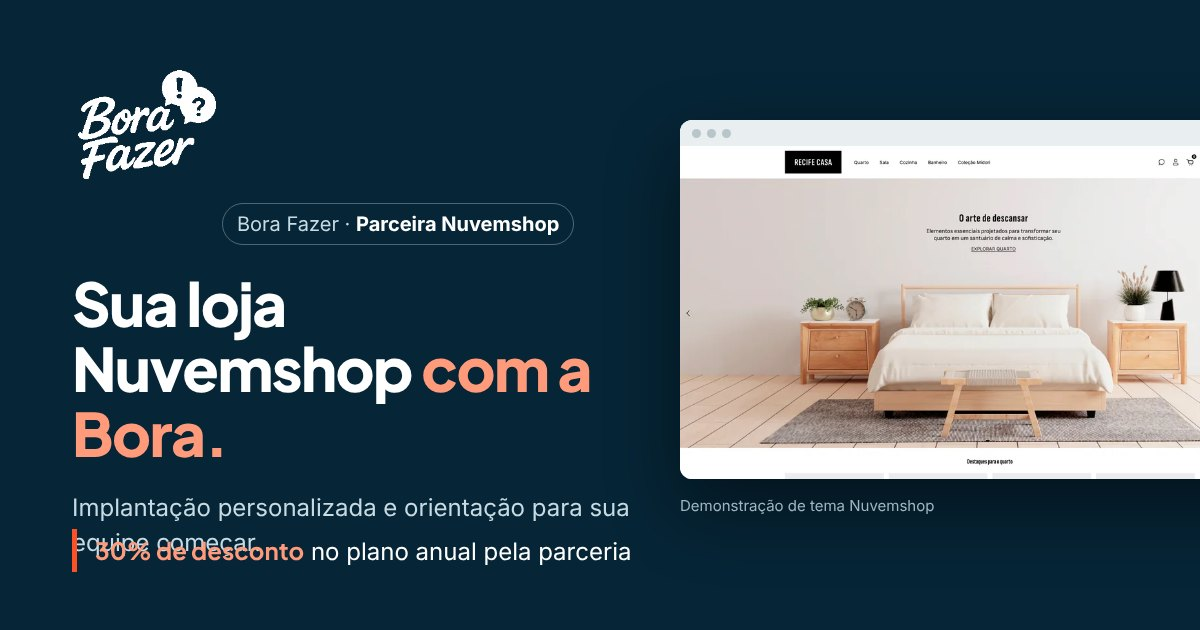
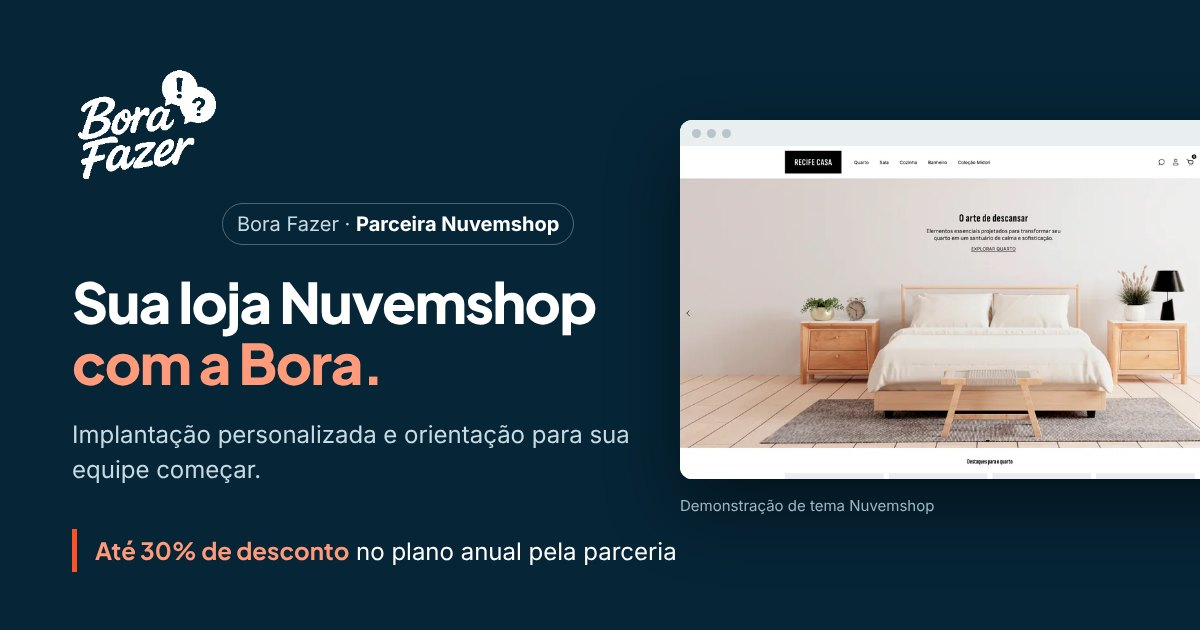
Ajusta condição da parceria para "até 30%" de desconto
O percentual depende das regras da parceria e pode mudar.
Atualiza primeira tela, seção da parceria, FAQ, descrições e imagem de compartilhamento.

Claude-Session: https://claude.ai/code/session_01CqigS8pC1fYRvwp7AAJcPe

Changed region(s): [[0.0617, 0.4524, 0.555, 0.9048]]

diff --git a/nuvemshop.html b/nuvemshop.html
@@ -4,10 +4,10 @@
   <meta charset="utf-8">
   <meta name="viewport" content="width=device-width,initial-scale=1">
   <title>Criação de loja Nuvemshop com implantação personalizada | Bora Fazer</title>
-  <meta name="description" content="Crie sua loja Nuvemshop com a Bora Fazer. Implantação personalizada, organização do catálogo e orientação para sua equipe. Conheça a condição de 30% no plano anual.">
+  <meta name="description" content="Crie sua loja Nuvemshop com a Bora Fazer. Implantação personalizada, organização do catálogo e orientação para sua equipe. Conheça a condição de até 30% de desconto no plano anual.">
   <link rel="canonical" href="https://agenciaborafazer.com.br/nuvemshop">
   <meta property="og:title" content="Sua loja Nuvemshop com a Bora Fazer">
-  <meta property="og:description" content="Implantação personalizada da sua loja na Nuvemshop, com catálogo organizado e equipe orientada. Condição de 30% no plano anual pela parceria.">
+  <meta property="og:description" content="Implantação personalizada da sua loja na Nuvemshop, com catálogo organizado e equipe orientada. Condição de até 30% de desconto no plano anual pela parceria.">
   <meta property="og:type" content="website">
   <meta property="og:url" content="https://agenciaborafazer.com.br/nuvemshop">
   <meta property="og:locale" content="pt_BR">
@@ -51,7 +51,7 @@
             <p class="ns-hero-support">Implantação personalizada e orientação para sua equipe começar.</p>
           </div>
           <div class="ns-offer">
-            <p class="ns-offer-main"><strong>30% de desconto</strong> no plano anual Nuvemshop pela nossa parceria.</p>
+            <p class="ns-offer-main"><strong>Até 30% de desconto</strong> no plano anual Nuvemshop pela nossa parceria.</p>
             <p class="ns-offer-note">Desconto referente à assinatura da plataforma. Implantação contratada separadamente.</p>
           </div>
         </div>
@@ -246,7 +246,7 @@
           <a class="button button-primary ns-button-lg" href="https://wa.me/5521967171986?text=Ol%C3%A1%21%20Vi%20a%20p%C3%A1gina%20da%20Bora%20com%20a%20Nuvemshop%20e%20quero%20conversar%20sobre%20a%20cria%C3%A7%C3%A3o%20da%20minha%20loja." data-wa data-cta-id="ns_partner_whatsapp" data-location="ns_partner" data-section="partnership" target="_blank" rel="noopener">Quero conhecer a condição e a implantação</a>
         </div>
         <div class="ns-partner-card">
-          <p class="ns-partner-figure"><strong>30%</strong> <span>de desconto no plano anual.</span></p>
+          <p class="ns-partner-figure"><small>Até</small> <strong>30%</strong> <span>de desconto no plano anual.</span></p>
           <p class="ns-partner-clarify">O desconto se refere à assinatura anual da Nuvemshop. O serviço de implantação da Bora é contratado separadamente. Consulte as condições de aplicação com nossa equipe.</p>
         </div>
       </div>
@@ -275,7 +275,7 @@
           <details><summary>Minha loja vai ter a identidade da minha marca?</summary><p>Sim. Personalizamos o tema escolhido com a identidade e os materiais definidos no projeto.</p></details>
           <details><summary>Vocês ajudam a organizar os produtos?</summary><p>Sim. A preparação do catálogo e a quantidade de produtos são combinadas na proposta.</p></details>
           <details><summary>A assinatura da Nuvemshop está incluída no serviço da Bora?</summary><p>São contratações separadas: a plataforma oferece a estrutura da loja e a Bora realiza a implantação acordada.</p></details>
-          <details><summary>Como funciona o desconto de 30%?</summary><p>A condição é aplicada à contratação do plano anual pela parceria. Nossa equipe orienta o processo e informa as condições.</p></details>
+          <details><summary>Como funciona o desconto de até 30%?</summary><p>A condição é aplicada à contratação do plano anual pela parceria, e o percentual pode variar conforme as regras vigentes. Nossa equipe orienta o processo e informa as condições.</p></details>
           <details><summary>Vocês ajudam depois da publicação?</summary><p>Podemos definir um acompanhamento para a operação, conforme o serviço contratado.</p></details>
           <details><summary>Já tentei vender online e não deu certo. Posso conversar com vocês?</summary><p>Sim. Vamos entender o que aconteceu e avaliar o que precisa ser organizado antes de definir um novo projeto.</p></details>
         </div>

diff --git a/css/nuvemshop.css b/css/nuvemshop.css
@@ -145,6 +145,7 @@
 .ns-partner-figure{display:flex;flex-wrap:wrap;align-items:baseline;gap:6px 14px;margin:0 0 18px;color:var(--ns-deep)}
 .ns-partner-figure strong{color:var(--ns-orange-strong);font:800 clamp(3.4rem,6vw,4.6rem)/1 var(--display);letter-spacing:-.04em}
 .ns-partner-figure span{font:800 1.3rem/1.3 var(--display)}
+.ns-partner-figure small{align-self:center;color:var(--ns-deep);font:800 1.3rem/1 var(--display)}
 .ns-partner-clarify{margin:0;padding-top:16px;border-top:1px solid var(--ns-line);color:var(--ns-muted);font-size:.9rem;line-height:1.65}
 
 /* 8. Depois */
